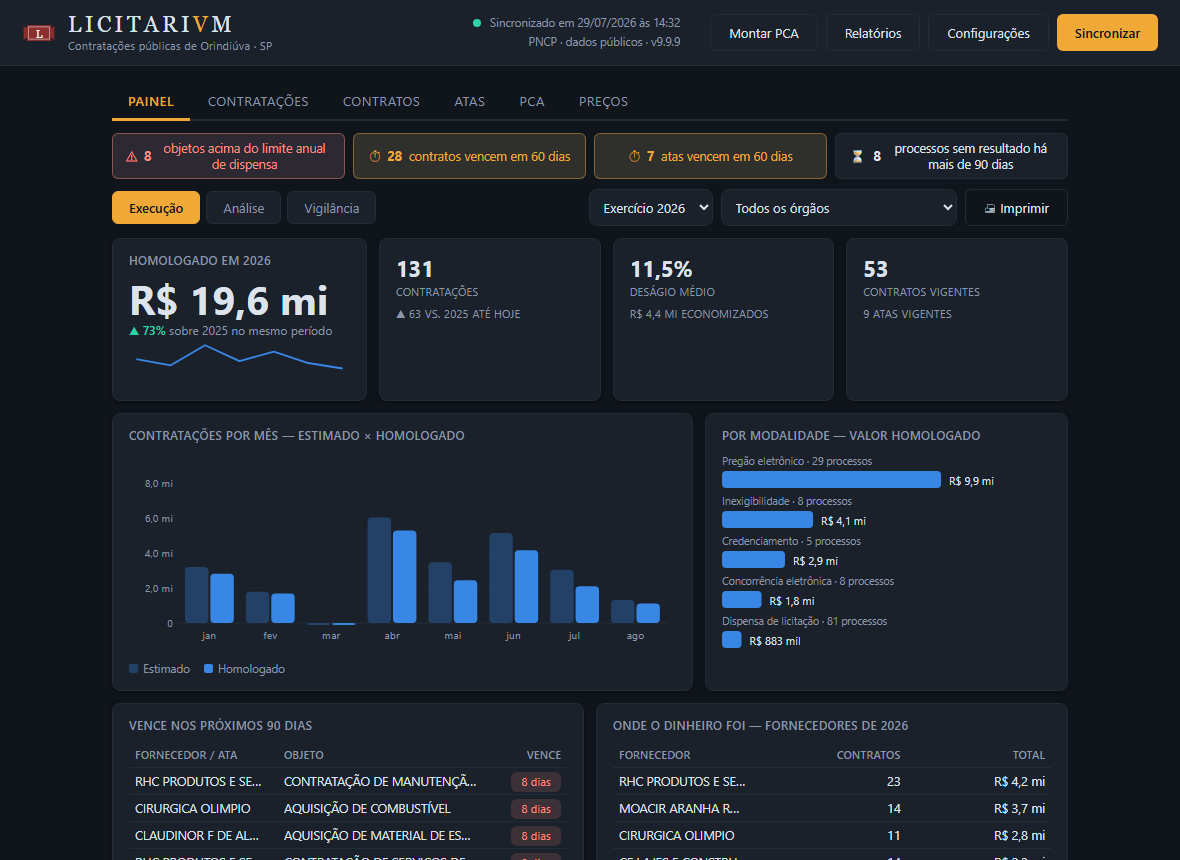
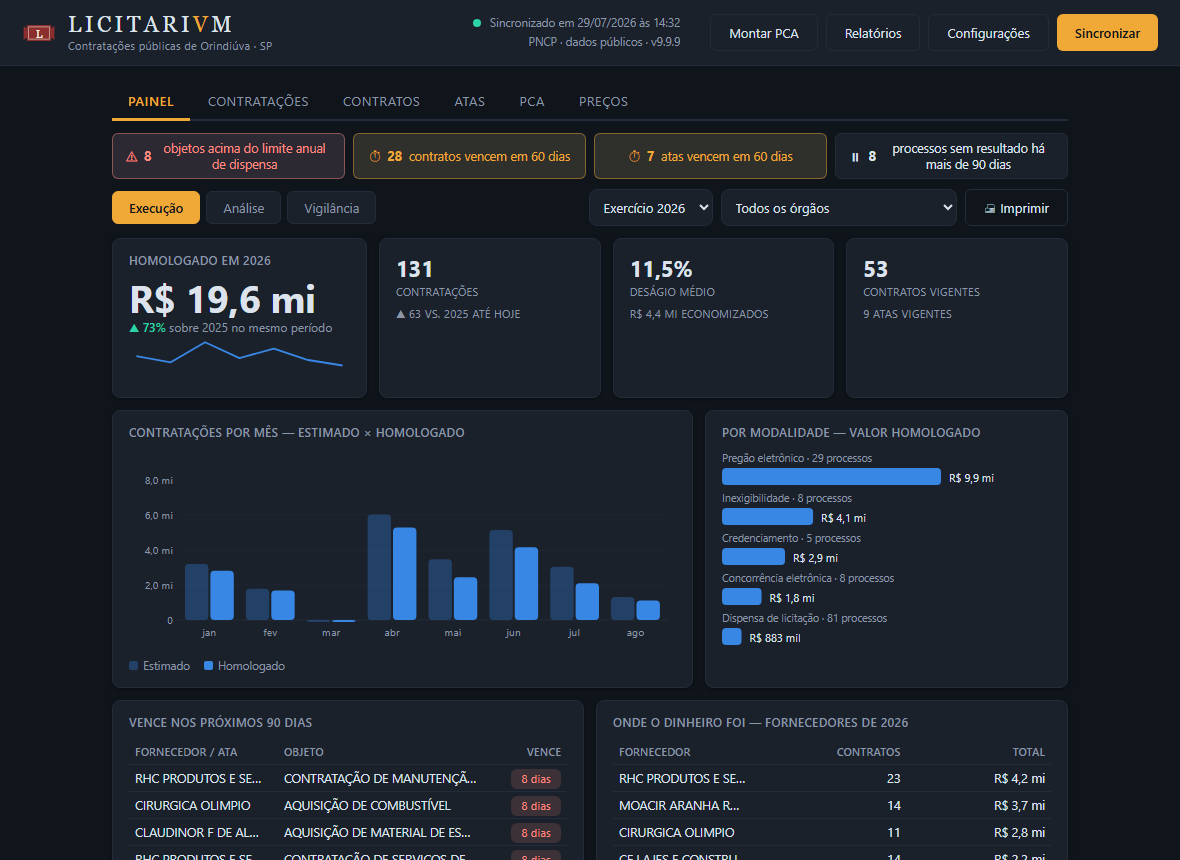
fix: os 5 achados restantes da auditoria de design (M3/M4/m1/m2/m3)
- M3: chip de processo parado usa ⏸ em vez de ⏳ (competia com os ícones
  de vencimento, sentidos opostos)
- M4: alvo de clique dos filtros de caixinha maior que a linha de texto
- m1: número do hero do Painel não quebra mais linha na janela mínima
  (clamp() de fonte)
- m2: coluna Objeto/Descrição das listas ganha teto na largura Expandida,
  em vez de esticar sem limite
- m3: filtros que mudam o cálculo (IPCA, conteúdo) ganham fundo próprio,
  separados dos que só filtram a lista

253 pytest + 110 E2E. Cada fix com teste que morde sem a correção
(revertido, roda, falha; correção volta, passa).

diff --git a/ui/estilo.css b/ui/estilo.css
@@ -145,8 +145,22 @@ main { max-width:1000px; margin:0 auto; padding:18px 22px 30px; }
 .chip.info { background:color-mix(in srgb, var(--accent) 12%, transparent);
              color:var(--accent); border-color:
              color-mix(in srgb, var(--accent) 35%, transparent); }
+/* achado da auditoria de design (2026-08-08): a área clicável seguia a
+   altura da linha de texto (~16-18px) — não é bloqueio WCAG AA (alvo
+   mínimo de 44px é critério AAA, e o programa é de mouse, não de toque),
+   mas incomoda quem usa trackpad ou tem menos precisão de mira. O padding
+   engorda a área sem mudar o layout — o label já propaga o clique ao input */
 .check-filtro { display:flex; align-items:center; gap:6px; font-size:13px;
-                color:var(--muted); white-space:nowrap; }
+                color:var(--muted); white-space:nowrap;
+                padding:4px 2px; margin:-4px -2px; }
+/* achado da auditoria (m3, 2026-08-08): "Corrigir pelo IPCA" e "Comparar
+   por conteúdo" mudam o cálculo do resumo inteiro; os demais filtros da
+   barra só recortam a lista. Um leve fundo nos dois avisa a diferença sem
+   precisar de rótulo — sempre aparecem juntos (mesma condição ehItens). */
+#cx-corrigir, #cx-conteudo {
+  background:color-mix(in srgb, var(--accent) 10%, transparent);
+  padding-left:8px; padding-right:8px; border-radius:6px;
+}
 /* filtro que veio do clique num alerta do Painel — não tem caixa própria
    (é uma lista de objetos, não um liga/desliga), então precisa dizer que
    está ativo, senão a lista parece filtrada por modalidade sozinha */
@@ -177,6 +191,11 @@ nav.abas button.on { color:var(--accent); font-weight:600;
 #btn-limpar { white-space:nowrap; }
 
 .lista { overflow:hidden; }
+/* achado da auditoria (m2, 2026-08-08): Expandida solta o teto do <main>
+   inteiro, mas numa lista a coluna elástica (Objeto/Descrição) é quem
+   herda toda a sobra — em telas largas ela vira um vão vazio depois do
+   texto em vez de ajudar em algo. Cabo só a lista, não o resto do main. */
+[data-largura="expandida"] .lista { max-width:1400px; margin:0 auto; }
 .linha { display:grid; gap:12px; padding:11px 16px; align-items:center;
          font-size:13px; cursor:pointer; border:none; background:none;
          width:100%; text-align:left; color:var(--text); }
@@ -435,8 +454,14 @@ details.raw pre { background:var(--surface2); border-radius:var(--radius);
 .painel .card { padding:14px 16px; }
 .painel h3 { font-size:11.5px; color:var(--muted); font-weight:600;
              letter-spacing:.05em; text-transform:uppercase; margin-bottom:10px; }
-.hero .n { font-size:40px; font-weight:700; line-height:1.05;
-           font-variant-numeric:tabular-nums; }
+/* achado da auditoria de design (2026-08-08): "R$ 19,6 mi" quebrava com o
+   "mi" sozinho numa linha na largura mínima da janela (900px) — o número
+   mais importante da tela virava o com pior tipografia bem onde sobra
+   menos espaço. clamp() encolhe a fonte antes de precisar quebrar; medido
+   a 900px (card ~193px úteis) até 1440px (card ~340px). */
+.hero .n { font-size:clamp(26px, 2.5vw + 8px, 40px); font-weight:700;
+           line-height:1.05; font-variant-numeric:tabular-nums;
+           white-space:nowrap; }
 .hero .r, .kpiv .r { font-size:12px; color:var(--muted); margin-top:2px; }
 .kpiv .v { font-size:22px; font-weight:700; font-variant-numeric:tabular-nums; }
 .kpiv .r { font-size:10.5px; text-transform:uppercase; letter-spacing:.05em; }

diff --git a/tests-e2e/app.spec.js b/tests-e2e/app.spec.js
@@ -93,6 +93,17 @@ test("fileira de filtros tem folga vertical maior que a horizontal",
   expect(gap.linha).toBeGreaterThan(gap.coluna);
 });
 
+test("checkbox de filtro tem alvo de clique maior que a linha de texto",
+    async ({ page }) => {
+  // achado da auditoria de design (2026-08-08): a área clicável seguia a
+  // altura da linha de texto (13px de fonte, ~16-18px de área) — não é
+  // bloqueio WCAG AA (alvo de 44px é AAA), mas incomodava no trackpad
+  await abrirLista(page, "contratacoes");
+  const altura = await page.locator("#cx-propostas").evaluate(
+    el => el.getBoundingClientRect().height);
+  expect(altura).toBeGreaterThanOrEqual(24);
+});
+
 test("fornecedor da lista de contratos carrega o nome completo no title",
     async ({ page }) => {
   // achado da auditoria de design (2026-08-08) — mesmo padrão do Painel
@@ -684,4 +695,36 @@ test("largura de coluna guardada antes de a aba mudar não quebra a lista",
   expect(cols.split(" ").length).toBe(8);
   // o mapa incompatível é descartado, e não reaplicado na próxima troca
   expect(await page.evaluate(() => larguras.itens)).toBeUndefined();
+});
+
+test("lista não estica sem limite na largura Expandida",
+    async ({ page }) => {
+  // achado da auditoria (m2, 2026-08-08): Expandida solta o teto do <main>
+  // inteiro; sem um teto próprio, a coluna Objeto (elástica) herdava toda
+  // a sobra e virava um vão vazio enorme em monitor largo (medido: ~1614px
+  // de vão a 2560px de janela). Com o teto na lista, o vão não cresce mais
+  // depois de um ponto — mediu 498px tanto a 1920px quanto a 2560px.
+  await page.evaluate(() => { document.documentElement.dataset.largura = "expandida"; });
+  await abrirLista(page, "contratos");
+  await page.setViewportSize({ width: 1920, height: 900 });
+  const l1920 = await page.locator("#lista").evaluate(el => el.getBoundingClientRect().width);
+  await page.setViewportSize({ width: 2560, height: 900 });
+  const l2560 = await page.locator("#lista").evaluate(el => el.getBoundingClientRect().width);
+  expect(l2560).toBeCloseTo(l1920, 0);
+});
+
+test("filtros que mudam o cálculo se destacam dos que só filtram a lista",
+    async ({ page }) => {
+  // achado da auditoria (m3, 2026-08-08): "Corrigir pelo IPCA" e "Comparar
+  // por conteúdo" trocam o resumo inteiro; "Só do meu município" só filtra
+  // a lista — mesma aparência antes, sem hierarquia entre os dois grupos.
+  await page.locator('nav.abas button[data-tipo="itens"]').click();
+  const cores = await page.evaluate(() => ({
+    corrigir: getComputedStyle($("cx-corrigir")).backgroundColor,
+    conteudo: getComputedStyle($("cx-conteudo")).backgroundColor,
+    soMeu: getComputedStyle($("cx-so-meu")).backgroundColor,
+  }));
+  expect(cores.corrigir).not.toBe(cores.soMeu);
+  expect(cores.conteudo).not.toBe(cores.soMeu);
+  expect(cores.corrigir).not.toMatch(/rgba\(0, 0, 0, 0\)|transparent/);
 });

diff --git a/tests-e2e/painel.spec.js b/tests-e2e/painel.spec.js
@@ -357,6 +357,27 @@ test("chips concordam em número", async ({ page }) => {
   await expect(chips.nth(4)).toContainText("processo sem resultado");
 });
 
+test("chip de processo parado não usa o mesmo ícone dos de vencimento",
+    async ({ page }) => {
+  // achado da auditoria de design (2026-08-08): ⏱ (vencendo) e ⏳ (parado)
+  // liam como a mesma família — "tempo passando" — pra conceitos opostos
+  await page.evaluate(() => {
+    window.__painel = { ...window.PAINEL_DADOS,
+      alertas: { perto_do_limite: 0, acima_do_limite: 0,
+                 vencendo_contratos: 1, vencendo_atas: 0,
+                 propostas: 0, paradas: 1 } };
+  });
+  await page.locator("#p-ano").selectOption({ index: 0 });
+  const iconeVencendo = await page.locator("#painel-chips .chip")
+    .filter({ hasText: "contrato vence" }).locator("b").first()
+    .evaluate(el => el.previousSibling.textContent.trim());
+  const iconeParado = await page.locator("#painel-chips .chip")
+    .filter({ hasText: "sem resultado" }).locator("b").first()
+    .evaluate(el => el.previousSibling.textContent.trim());
+  expect(iconeParado).not.toBe(iconeVencendo);
+  expect(iconeParado).not.toBe("⏳");
+});
+
 test("chips ficam com a mesma altura mesmo quando o texto quebra linha",
     async ({ page }) => {
   // "5 objetos acima do limite anual de dispensa" quebra em duas linhas
@@ -396,6 +417,22 @@ test("os 5 alertas possíveis cabem numa linha só até a largura mínima da jan
   // .chip.aviso abaixo (esse limiar frouxo já deixou o bug passar batido
   // uma vez — se voltar, este teste tem de morder de novo)
   for (const y of ys) expect(Math.abs(y - ys[0])).toBeLessThan(10);
+});
+
+test("número do hero cabe numa linha só na largura mínima da janela",
+    async ({ page }) => {
+  // achado da auditoria (m1, 2026-08-08): a 900px (min_size do pywebview,
+  // licitarium.py) "R$ 19,6 mi" quebrava em duas linhas dentro do card.
+  // fonte virou clamp() — este teste confere que ela de fato encolheu o
+  // bastante pra caber, e não só reduziu sem resolver.
+  await page.setViewportSize({ width: 900, height: 700 });
+  const numero = page.locator(".card.hero .n");
+  const caixa = await numero.boundingBox();
+  const linha = await numero.evaluate(
+    el => parseFloat(getComputedStyle(el).lineHeight));
+  const hero = await page.locator(".card.hero").boundingBox();
+  expect(caixa.height).toBeLessThan(linha * 1.5);
+  expect(caixa.width).toBeLessThanOrEqual(hero.width - 16);
 });
 
 test("chip.aviso não herda margin-top da classe .aviso genérica",

diff --git a/MANUAL.html b/MANUAL.html
@@ -2,11 +2,11 @@
 <html lang="pt-BR">
 <head>
 <meta charset="utf-8">
-<title>Manual Operacional — Licitarium v1.14.0</title>
+<title>Manual Operacional — Licitarium v1.14.1</title>
 <style>
   @page {
     size: A4; margin: 2cm 1.8cm;
-    @top-center { content: "Licitarium v1.14.0 — Manual Operacional"; font-size: 9pt; color: #6f5b3e; }
+    @top-center { content: "Licitarium v1.14.1 — Manual Operacional"; font-size: 9pt; color: #6f5b3e; }
     @bottom-right { content: "Página " counter(page) " de " counter(pages);
                     font-size: 9pt; color: #6f5b3e; }
   }
@@ -150,7 +150,7 @@
           fill="var(--text)" text-anchor="middle">MMXXVI</text>
   </svg>
   <h1 class="mark">LICITARI<b>V</b>M</h1>
-  <div class="subtitulo">MANUAL DO USUÁRIO · VERSÃO 1.14.0</div>
+  <div class="subtitulo">MANUAL DO USUÁRIO · VERSÃO 1.14.1</div>
 </header>
 
 <h2>1. O que é o Licitarium</h2>
@@ -165,7 +165,7 @@ sincronizado e se atualiza sozinho a cada abertura. O Licitarium apenas
 <h2>2. Instalação</h2>
 <h3>Pelo executável (recomendado)</h3>
 <ol>
-  <li>Baixe o <code>Licitarium.v1.14.0.exe</code> na página de releases do
+  <li>Baixe o <code>Licitarium.v1.14.1.exe</code> na página de releases do
       projeto — o nome do arquivo traz a versão, então dá para saber qual
       você tem sem abrir o programa.</li>
   <li>Execute. Não precisa instalar, nem ter Python, nem direitos de administrador.</li>

diff --git a/ui/painel.js b/ui/painel.js
@@ -784,7 +784,11 @@ function mostrarChips(a) {
     a.propostas === 1 ? "processo com proposta aberta"
                       : "processos com proposta aberta",
     () => irPara("contratacoes", {orgao, propostas: true})]);
-  if (a.paradas) chips.push(["", "⏳", a.paradas,
+  // achado da auditoria de design (2026-08-08): ⏳ (ampulheta) e ⏱ (relógio,
+  // usado nos dois chips de vencimento acima) lêem como "tempo passando" a
+  // um olhar rápido, mas dizem coisas opostas — prazo chegando vs processo
+  // parado. ⏸ lê como "parado" de propósito, sem competir com relógio.
+  if (a.paradas) chips.push(["", "⏸", a.paradas,
     a.paradas === 1 ? "processo sem resultado há mais de 90 dias"
                     : "processos sem resultado há mais de 90 dias",
     () => irPara("contratacoes", {ano: P.dados.ano, orgao, parada: true})]);

diff --git a/licitarium.py b/licitarium.py
@@ -27,7 +27,7 @@ import pca_builder
 import pncp
 import relatorios
 
-VERSAO = "1.14.0"
+VERSAO = "1.14.1"
 # dentro do exe onefile os arquivos ficam na pasta temporária do bundle;
 # _MEIPASS é o caminho oficial para chegar até eles
 DIR_APP = Path(getattr(sys, "_MEIPASS", Path(__file__).resolve().parent))

diff --git a/design/DASHBOARD.md b/design/DASHBOARD.md
@@ -241,3 +241,28 @@ documento é o mesmo que está na tela — redesenhar no Python seria uma segund
 implementação para divergir da primeira. `print-color-adjust: exact` impede o
 navegador de "economizar tinta" e devolver barras cinzentas; por ser vetorial,
 a saída não tem resolução de tela, e sim a da impressora.
+
+## Auditoria de design (2026-08-08)
+
+Primeira auditoria completa, nível profissional: 21+ screenshots (6 abas × 3
+temas + estados de borda — janela mínima, densidade expandida, modal, filtros
+ativos), cada achado visual conferido contra o código-fonte antes de entrar
+no relatório (dois candidatos caíram nessa conferência: um eixo do gráfico de
+deságio "sem rótulo" que só estava cortado fora do print, e uma "borda azul"
+de KPI que era o cursor do mouse do Playwright atravessando a tela, não um
+estado de hover real). Achados, por prioridade:
+
+| # | Achado | Onde | Corrigido em |
+|---|---|---|---|
+| C1 | Rótulos da agenda se sobrepunham em dias lotados | Painel · Vigilância | 1.14.0 |
+| M1 | Fornecedor/objeto truncado sem `title` | Painel + Contratos | 1.14.0 |
+| M2 | Barra de filtros quebrava sem folga vertical | Contratações, Preços | 1.14.0 |
+| M3 | Chip "parado" com o mesmo ícone dos de vencimento | Painel · Vigilância | 1.14.1 |
+| M4 | Área clicável dos filtros de caixinha = altura do texto | barra de filtros | 1.14.1 |
+| m1 | Número do hero quebrava em duas linhas na janela mínima | Painel · Execução | 1.14.1 |
+| m2 | Coluna Objeto crescia sem limite na largura Expandida | listas de tabela | 1.14.1 |
+| m3 | Filtros que mudam o cálculo sem hierarquia visual | aba Preços | 1.14.1 |
+
+Todos os oito, corrigidos e liberados. Cada fix tem teste E2E que morde sem a
+correção (`git diff` revertido, teste roda, falha; correção volta, teste
+passa) — não só passa com a correção presente.

diff --git a/CHANGELOG.md b/CHANGELOG.md
@@ -1,5 +1,33 @@
 # Changelog
 
+## 1.14.1 — 2026-08-08
+
+**Os cinco achados restantes da auditoria de design, corrigidos**
+
+- **Chip "processo parado" tinha o mesmo ícone dos chips de vencimento.**
+  ⏳ (ampulheta) e ⏱ (relógio, usado nos dois chips de vencimento) leem
+  como "tempo passando" à primeira vista, mas dizem coisas opostas — prazo
+  chegando vs. processo sem movimento. Trocado por ⏸.
+- **Área clicável dos filtros de caixinha seguia a altura do texto**
+  (~16-18px) — não é bloqueio de acessibilidade (alvo mínimo de 44px é
+  critério AAA, e o programa é de mouse), mas incomodava em trackpad. Um
+  padding aumenta a área sem mudar o layout visível.
+- **Número do hero do Painel quebrava em duas linhas** ("R$ 19,6" numa
+  linha, "mi" sozinho na outra) na largura mínima da janela (900px,
+  `min_size` do pywebview) — o número mais importante da tela com a pior
+  tipografia bem onde sobra menos espaço. A fonte agora encolhe com
+  `clamp()` antes de precisar quebrar.
+- **Coluna Objeto/Descrição das listas crescia sem limite na largura
+  "Expandida"**, sobrando um vão vazio depois do texto em vez de ajudar em
+  algo (medido: ~1614px de vão a 2560px de janela). A lista agora tem teto
+  próprio (1400px), independente do resto da página.
+- **"Corrigir pelo IPCA" e "Comparar por conteúdo" disputavam espaço visual
+  com filtros comuns**, sem hierarquia — um muda o cálculo do resumo
+  inteiro, o outro só filtra a lista. Um leve fundo nos dois marca a
+  diferença sem precisar de rótulo.
+
+253 pytest + 110 E2E.
+
 ## 1.14.0 — 2026-08-08
 
 **Três achados da auditoria de design, corrigidos**
